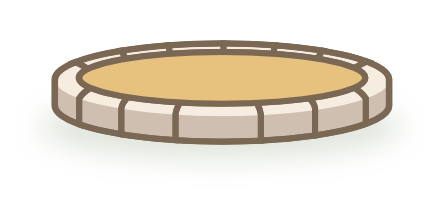
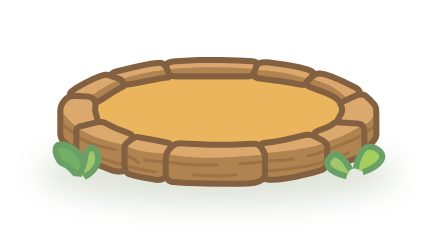
상점 울타리/밭 이미지 확장 및 레이아웃 조정
- 밭/울타리 이미지를 01-08 번호 체계로 확장
- 울타리 크기 110%로 확대
- 상점 레이아웃 2열 구조로 유지
- 테스트를 위해 모든 울타리 무료로 설정
- 울타리 아이템 배경 이미지 추가

diff --git a/src/components/ShopModal.tsx b/src/components/ShopModal.tsx
@@ -59,6 +59,7 @@ export const ShopModal: React.FC<ShopModalProps> = ({ visible, onClose }) => {
   const [confirmVisible, setConfirmVisible] = React.useState(false);
   const [pendingPurchase, setPendingPurchase] = React.useState<{
     type: 'fence' | 'plot';
+    action: 'purchase' | 'equip'; // 구매 또는 장착
     id?: string;
     name: string;
     price: number;
@@ -79,19 +80,17 @@ export const ShopModal: React.FC<ShopModalProps> = ({ visible, onClose }) => {
     const config = FENCE_CONFIGS[fenceId];
     if (!config) return;
 
-    // 기본 울타리는 바로 장착
+    // 기본 울타리도 교체 확인
     if (config.isDefault) {
-      equipFence(fenceId);
-      setAlertMessage(`${config.name}를 장착했어요!`);
-      setAlertVisible(true);
+      setPendingPurchase({ type: 'fence', action: 'equip', id: fenceId, name: config.name, price: 0 });
+      setConfirmVisible(true);
       return;
     }
 
-    // 이미 구매한 울타리면 바로 장착
+    // 이미 구매한 울타리면 교체 확인
     if (fences.some((f) => f.id === fenceId)) {
-      equipFence(fenceId);
-      setAlertMessage(`${config.name}를 장착했어요!`);
-      setAlertVisible(true);
+      setPendingPurchase({ type: 'fence', action: 'equip', id: fenceId, name: config.name, price: 0 });
+      setConfirmVisible(true);
       return;
     }
 
@@ -103,28 +102,42 @@ export const ShopModal: React.FC<ShopModalProps> = ({ visible, onClose }) => {
     }
 
     // 구매 확인 모달 표시
-    setPendingPurchase({ type: 'fence', id: fenceId, name: config.name, price: config.price });
+    setPendingPurchase({ type: 'fence', action: 'purchase', id: fenceId, name: config.name, price: config.price });
     setConfirmVisible(true);
   };
 
-  // 구매 확인
+  // 구매/장착 확인
   const handleConfirmPurchase = () => {
     if (!pendingPurchase) return;
 
     if (pendingPurchase.type === 'fence' && pendingPurchase.id) {
-      // 울타리 구매
-      const success = purchaseFence(pendingPurchase.id, pendingPurchase.price);
-      if (success) {
+      if (pendingPurchase.action === 'purchase') {
+        // 울타리 구매
+        const success = purchaseFence(pendingPurchase.id, pendingPurchase.price);
+        if (success) {
+          equipFence(pendingPurchase.id);
+          setAlertMessage(`${pendingPurchase.name}를 구매하고 장착했어요!`);
+          setAlertVisible(true);
+        }
+      } else {
+        // 울타리 장착
         equipFence(pendingPurchase.id);
-        setAlertMessage(`${pendingPurchase.name}를 구매하고 장착했어요!`);
+        setAlertMessage('장착했어요!');
         setAlertVisible(true);
       }
     } else if (pendingPurchase.type === 'plot' && pendingPurchase.id) {
-      // 밭 구매
-      const success = purchasePlot(pendingPurchase.id, pendingPurchase.price);
-      if (success) {
+      if (pendingPurchase.action === 'purchase') {
+        // 밭 구매
+        const success = purchasePlot(pendingPurchase.id, pendingPurchase.price);
+        if (success) {
+          equipPlot(pendingPurchase.id);
+          setAlertMessage(`${pendingPurchase.name}을 구매하고 장착했어요!`);
+          setAlertVisible(true);
+        }
+      } else {
+        // 밭 장착
         equipPlot(pendingPurchase.id);
-        setAlertMessage(`${pendingPurchase.name}을 구매하고 장착했어요!`);
+        setAlertMessage('장착했어요!');
         setAlertVisible(true);
       }
     }
@@ -144,19 +157,17 @@ export const ShopModal: React.FC<ShopModalProps> = ({ visible, onClose }) => {
     const config = PLOT_CONFIGS[plotId];
     if (!config) return;
 
-    // 기본 밭은 바로 장착
+    // 기본 밭도 교체 확인
     if (config.isDefault) {
-      equipPlot(plotId);
-      setAlertMessage(`${config.name}을 장착했어요!`);
-      setAlertVisible(true);
+      setPendingPurchase({ type: 'plot', action: 'equip', id: plotId, name: config.name, price: 0 });
+      setConfirmVisible(true);
       return;
     }
 
-    // 이미 구매한 밭이면 바로 장착
+    // 이미 구매한 밭이면 교체 확인
     if (plots.some((p) => p.id === plotId)) {
-      equipPlot(plotId);
-      setAlertMessage(`${config.name}을 장착했어요!`);
-      setAlertVisible(true);
+      setPendingPurchase({ type: 'plot', action: 'equip', id: plotId, name: config.name, price: 0 });
+      setConfirmVisible(true);
       return;
     }
 
@@ -168,7 +179,7 @@ export const ShopModal: React.FC<ShopModalProps> = ({ visible, onClose }) => {
     }
 
     // 구매 확인 모달 표시
-    setPendingPurchase({ type: 'plot', id: plotId, name: config.name, price: config.price });
+    setPendingPurchase({ type: 'plot', action: 'purchase', id: plotId, name: config.name, price: config.price });
     setConfirmVisible(true);
   };
 
@@ -311,7 +322,7 @@ export const ShopModal: React.FC<ShopModalProps> = ({ visible, onClose }) => {
                       </TouchableOpacity>
                     ))
                   ) : (
-                    // 울타리 탭
+                    // 울타리 탭 (2열 레이아웃)
                     fenceItemsData.map((item) => (
                       <TouchableOpacity
                         key={item.id}
@@ -328,7 +339,7 @@ export const ShopModal: React.FC<ShopModalProps> = ({ visible, onClose }) => {
                           source={item.image}
                           style={[
                             styles.itemImage,
-                            { height: itemImageHeight * 0.4, top: itemImageTop + itemImageHeight * 0.3 }
+                            { height: itemImageHeight * 0.6, top: itemImageTop + itemImageHeight * 0.2 }
                           ]}
                           resizeMode="contain"
                         />
@@ -369,12 +380,17 @@ export const ShopModal: React.FC<ShopModalProps> = ({ visible, onClose }) => {
         </View>
       </View>
 
-      {/* 구매 확인 모달 */}
+      {/* 구매/장착 확인 모달 */}
       <ConfirmModal
         visible={confirmVisible}
-        title="구매 확인"
-        message={pendingPurchase ? `${pendingPurchase.name}을(를)\n새싹 ${pendingPurchase.price.toLocaleString()}개로 구매하시겠습니까?` : ''}
-        confirmText="구매"
+        title={pendingPurchase?.action === 'purchase' ? '구매 확인' : '교체 확인'}
+        message={pendingPurchase
+          ? pendingPurchase.action === 'purchase'
+            ? `${pendingPurchase.name}을(를)\n새싹 ${pendingPurchase.price.toLocaleString()}개로 구매하시겠습니까?`
+            : '장착하시겠습니까?'
+          : ''
+        }
+        confirmText={pendingPurchase?.action === 'purchase' ? '구매' : '확인'}
         cancelText="취소"
         onConfirm={handleConfirmPurchase}
         onCancel={handleCancelPurchase}

diff --git a/src/utils/fenceConfigs.ts b/src/utils/fenceConfigs.ts
@@ -16,9 +16,9 @@ export interface FenceConfig {
 export const FENCE_CONFIGS: Record<string, FenceConfig> = {
   rope: {
     id: 'rope',
-    name: '줄 울타리',
+    name: '기본 울타리',
     emoji: '🪢',
-    image: require('../assets/garden/props/fence-rope.png'),
+    image: require('../assets/garden/props/fence-01.png'),
     shopImage: require('../assets/shop/fence-decor-01.png'),
     description: '기본 울타리',
     price: 0,
@@ -26,21 +26,66 @@ export const FENCE_CONFIGS: Record<string, FenceConfig> = {
   },
   wood: {
     id: 'wood',
-    name: '나무 울타리',
+    name: '울타리 꾸미기 2',
     emoji: '🪵',
-    image: require('../assets/garden/props/fence-wood.png'),
+    image: require('../assets/garden/props/fence-02.png'),
     shopImage: require('../assets/shop/fence-decor-02.png'),
-    description: '튼튼한 나무 울타리',
-    price: 5000,
+    description: '울타리 꾸미기 2',
+    price: 0,
   },
   'wood-flower': {
     id: 'wood-flower',
-    name: '꽃 나무 울타리',
+    name: '울타리 꾸미기 3',
     emoji: '🌸',
-    image: require('../assets/garden/props/fence-wood-flower.png'),
+    image: require('../assets/garden/props/fence-03.png'),
     shopImage: require('../assets/shop/fence-decor-03.png'),
-    description: '꽃이 핀 아름다운 나무 울타리',
-    price: 10000,
+    description: '울타리 꾸미기 3',
+    price: 0,
+  },
+  fence4: {
+    id: 'fence4',
+    name: '울타리 꾸미기 4',
+    emoji: '🌺',
+    image: require('../assets/garden/props/fence-04.png'),
+    shopImage: require('../assets/shop/fence-decor-04.png'),
+    description: '울타리 꾸미기 4',
+    price: 0,
+  },
+  fence5: {
+    id: 'fence5',
+    name: '울타리 꾸미기 5',
+    emoji: '🌼',
+    image: require('../assets/garden/props/fence-05.png'),
+    shopImage: require('../assets/shop/fence-decor-05.png'),
+    description: '울타리 꾸미기 5',
+    price: 0,
+  },
+  fence6: {
+    id: 'fence6',
+    name: '울타리 꾸미기 6',
+    emoji: '🌻',
+    image: require('../assets/garden/props/fence-06.png'),
+    shopImage: require('../assets/shop/fence-decor-06.png'),
+    description: '울타리 꾸미기 6',
+    price: 0,
+  },
+  fence7: {
+    id: 'fence7',
+    name: '울타리 꾸미기 7',
+    emoji: '🌷',
+    image: require('../assets/garden/props/fence-07.png'),
+    shopImage: require('../assets/shop/fence-decor-07.png'),
+    description: '울타리 꾸미기 7',
+    price: 0,
+  },
+  fence8: {
+    id: 'fence8',
+    name: '울타리 꾸미기 8',
+    emoji: '🏵',
+    image: require('../assets/garden/props/fence-08.png'),
+    shopImage: require('../assets/shop/fence-decor-08.png'),
+    description: '울타리 꾸미기 8',
+    price: 0,
   },
 };
 

diff --git a/src/utils/plotConfigs.ts b/src/utils/plotConfigs.ts
@@ -18,7 +18,7 @@ export const PLOT_CONFIGS: Record<string, PlotConfig> = {
     id: 'basic',
     name: '기본 밭',
     emoji: '🟫',
-    image: require('../assets/garden/props/farm-plot.png'),
+    image: require('../assets/garden/props/farm-plot-01.png'),
     shopImage: require('../assets/shop/farm-plot-decor-01.png'),
     description: '기본 밭',
     price: 0,
@@ -58,6 +58,33 @@ export const PLOT_CONFIGS: Record<string, PlotConfig> = {
     image: require('../assets/garden/props/farm-plot-05.png'),
     shopImage: require('../assets/shop/farm-plot-decor-05.png'),
     description: '밭 꾸미기 5',
+    price: 0,
+  },
+  style6: {
+    id: 'style6',
+    name: '밭 꾸미기 6',
+    emoji: '🌻',
+    image: require('../assets/garden/props/farm-plot-06.png'),
+    shopImage: require('../assets/shop/farm-plot-decor-06.png'),
+    description: '밭 꾸미기 6',
+    price: 0,
+  },
+  style7: {
+    id: 'style7',
+    name: '밭 꾸미기 7',
+    emoji: '🌼',
+    image: require('../assets/garden/props/farm-plot-07.png'),
+    shopImage: require('../assets/shop/farm-plot-decor-07.png'),
+    description: '밭 꾸미기 7',
+    price: 0,
+  },
+  style8: {
+    id: 'style8',
+    name: '밭 꾸미기 8',
+    emoji: '🌷',
+    image: require('../assets/garden/props/farm-plot-08.png'),
+    shopImage: require('../assets/shop/farm-plot-decor-08.png'),
+    description: '밭 꾸미기 8',
     price: 0,
   },
 };

diff --git a/src/components/GardenArea.tsx b/src/components/GardenArea.tsx
@@ -300,7 +300,7 @@ export const GardenArea = forwardRef<View, GardenAreaProps>(({
                     >
                       <Animated.View style={{ transform: [{ scale: slotScales[slotIndex] }] }}>
                         <ImageBackground
-                          source={PLOT_CONFIGS[equippedPlot]?.image || require('../assets/garden/props/farm-plot.png')}
+                          source={PLOT_CONFIGS[equippedPlot]?.image || require('../assets/garden/props/farm-plot-01.png')}
                           style={[
                             styles.plotSlot,
                             {
@@ -367,7 +367,7 @@ export const GardenArea = forwardRef<View, GardenAreaProps>(({
 
           {/* 울타리 - 밭 바로 아래 (장착된 울타리 렌더링) */}
           <Image
-            source={FENCE_CONFIGS[equippedFence]?.image || require('../assets/garden/props/fence-rope.png')}
+            source={FENCE_CONFIGS[equippedFence]?.image || require('../assets/garden/props/fence-01.png')}
             style={styles.fence}
             resizeMode="contain"
           />
@@ -467,8 +467,8 @@ const styles = StyleSheet.create({
     color: '#7a6854',
   },
   fence: {
-    width: width * 0.9,
-    height: width * 0.9 * 0.19, // 이미지 비율 132/700
+    width: width * 1.1,
+    height: width * 1.1 * 0.19, // 이미지 비율 132/700
     marginTop: height * 0.04,
   },
   mailAlert: {
